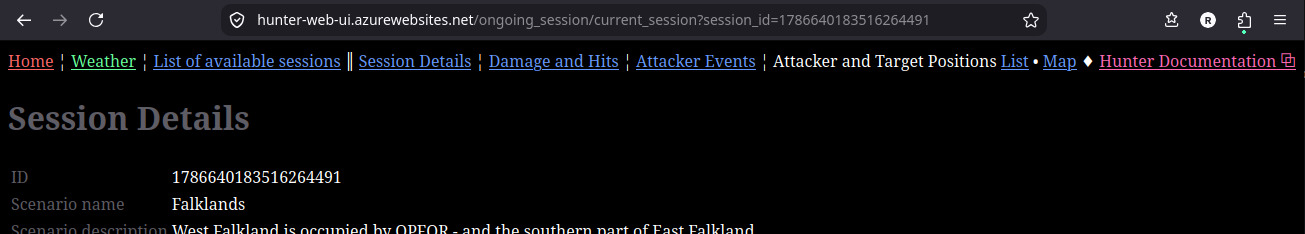
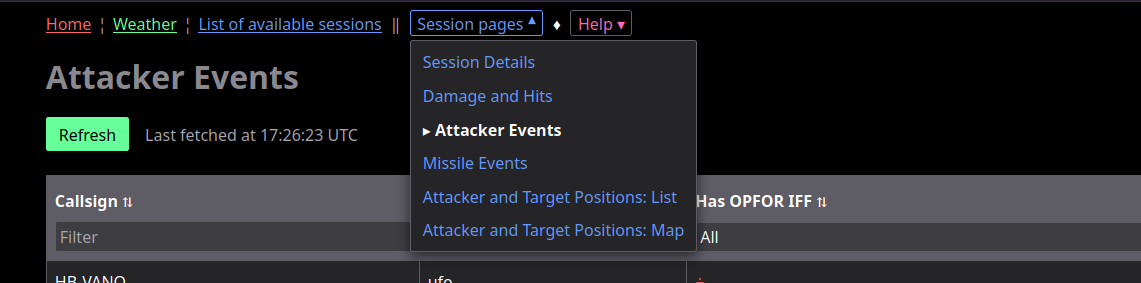
* Adapt web navigation chapter to reflect UI changes * Update index and some chapter titles to align with web UI navigation manu items

diff --git a/src/web_application.rst b/src/web_application.rst
@@ -1,7 +1,7 @@
 
-===============
-Web-application
-===============
+================
+Using the Web UI
+================
 
 Hunter has a simple web-ui at `mango-meadow-0bc8d0703.5.azurestaticapps.net⬀ <https://mango-meadow-0bc8d0703.5.azurestaticapps.net/>`_ showing damage statistics, a map of airports, a map of targets as well as a list of targets. The data for different sessions is kept for some days.
 
@@ -46,11 +46,11 @@ The design of Hunter takes the bold assumption of accessibility not being an imp
 Navigation
 ----------
 
-Navigation between pages is at the top. When no session has been chosen, then only few menu items are shown.
+Navigation between pages is at the top. When no session has been chosen, then only few menu items are shown. The ``Help`` menu is a drop-down with direct links to specific chapters in the manual
 
 .. image:: images/web_navigation_no_session.png
 
-As soon as a session has been chosen, then additional menu items are shown.
+As soon as a session has been chosen, then an additional drop-down menu is shown.
 
 .. image:: images/web_navigation_with_session.png
 

diff --git a/src/operators.rst b/src/operators.rst
@@ -1,7 +1,7 @@
 
-========================
-Operators Running Hunter
-========================
+===============================
+Operating the Hunter Controller
+===============================
 
 .. toctree::
    :maxdepth: 3

diff --git a/src/end_user_flying.rst b/src/end_user_flying.rst
@@ -1,8 +1,8 @@
 .. _chapter-end-user-label:
 
-================
-Using as a Pilot
-================
+=======================
+Using Hunter as a Pilot
+=======================
 
 .. toctree::
    :maxdepth: 3

diff --git a/src/index.rst b/src/index.rst
@@ -8,8 +8,8 @@ Welcome to Hunter's documentation!
 
    about
    terms_of_use
-   end_user_flying
    web_application
+   end_user_flying
    operators
    scenario_creation
 
